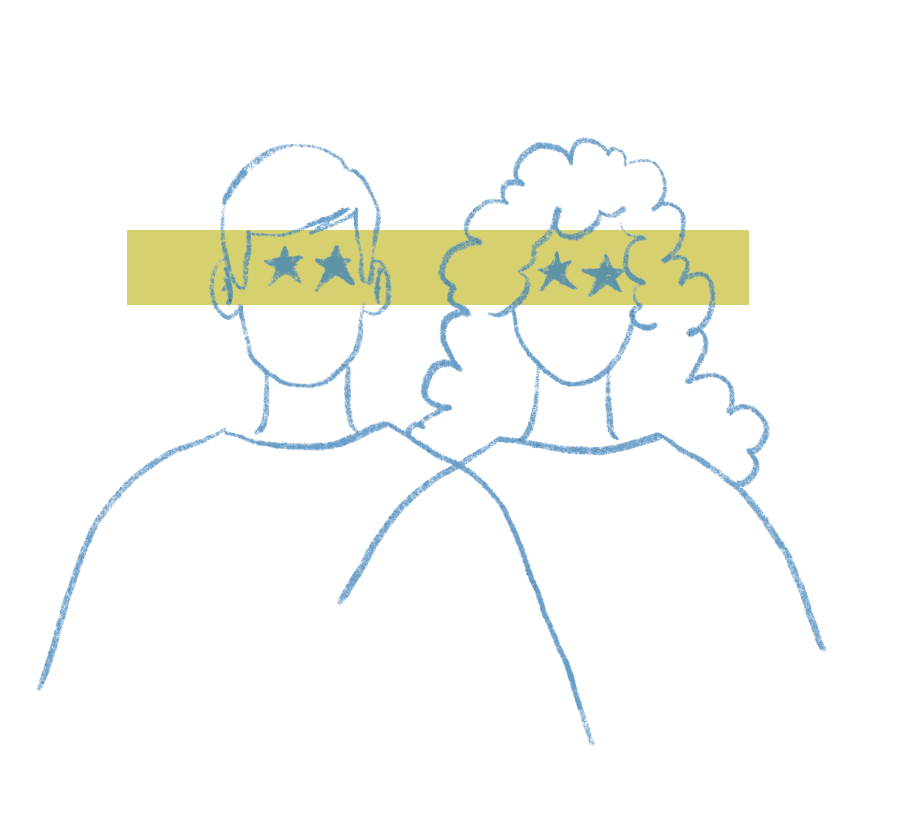
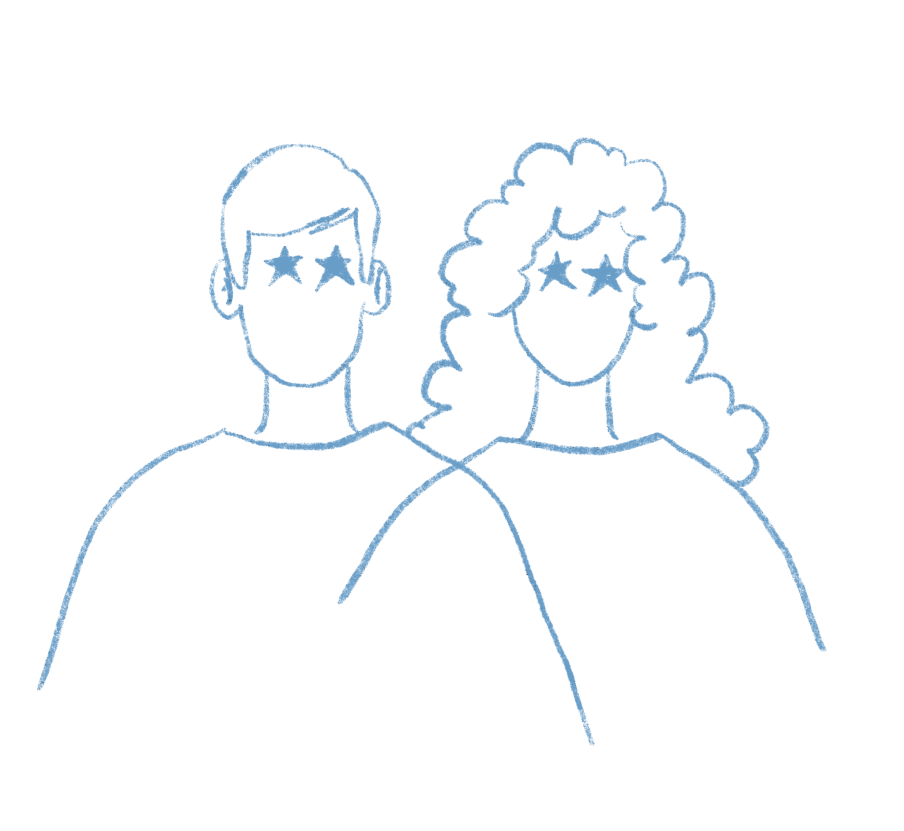
style: add animations

Changed region(s): [[0.1239, 0.2708, 0.8363, 0.3911]]

diff --git a/src/views/Suggestions.vue b/src/views/Suggestions.vue
@@ -208,7 +208,10 @@
             /></router-link>
           </div>
         </Form>
-        <ImageContainer src="/bike.png" class="w-[703px]" />
+        <div class="mt-20">
+          <ImageContainer src="/bike.png" class="w-[703px] fixed top-200 left-[1100px]" />
+          <Animation />
+        </div>
       </div>
     </div>
   </base-wrapper>
@@ -217,13 +220,15 @@
 <script>
 import { Form, Field, ErrorMessage } from 'vee-validate'
 import ImageContainer from '../components/ImageContainer.vue'
+import Animation from '../components/animations/suggestions.vue'
 import axios from 'axios'
 export default {
   components: {
     Form,
     Field,
     ErrorMessage,
-    ImageContainer
+    ImageContainer,
+    Animation
   },
 
   computed: {
@@ -288,10 +293,8 @@ export default {
           }
         )
         .then((response) => {
-          console.log(response)
           if (response.status === 201) {
             this.$router.push('/thank-you')
-            // this.$router.push('/suggestions')
           }
         })
         .catch((error) => {

diff --git a/src/views/CovidCondition.vue b/src/views/CovidCondition.vue
@@ -135,7 +135,10 @@
             </button>
           </div>
         </Form>
-        <ImageContainer src="/CovidConditionImage.png" class="w-[870px]" />
+        <div>
+          <ImageContainer src="/CovidConditionImage.png" class="w-[870px]" />
+          <Animation />
+        </div>
       </div>
     </div>
   </base-wrapper>
@@ -144,12 +147,14 @@
 <script>
 import { Form, Field, ErrorMessage } from 'vee-validate'
 import ImageContainer from '../components/ImageContainer.vue'
+import Animation from '../components/animations/covidCondition.vue'
 export default {
   components: {
     Form,
     Field,
     ErrorMessage,
-    ImageContainer
+    ImageContainer,
+    Animation
   },
 
   computed: {
@@ -199,7 +204,6 @@ export default {
       this.$router.push('/vaccine-condition')
     },
     changeCondition(e) {
-      console.log(e.target.name)
       this.$store.dispatch('inputs_covid_condition/saveData', {
         ...this.allInputs,
         had_antibody_test: this.had_antibody_test,

diff --git a/src/views/VaccinateCondition.vue b/src/views/VaccinateCondition.vue
@@ -173,7 +173,10 @@
               <img src="/Vector_right.png" alt="vector_right" />
             </button></div
         ></Form>
-        <ImageContainer src="/VaccineConditionImage.png" class="w-[783px]" />
+        <div>
+          <ImageContainer src="/VaccineConditionImage.png" class="w-[783px]" />
+          <Animation />
+        </div>
       </div>
     </div>
   </base-wrapper>
@@ -182,12 +185,14 @@
 <script>
 import { Form, Field, ErrorMessage } from 'vee-validate'
 import ImageContainer from '../components/ImageContainer.vue'
+import Animation from '../components/animations/vaccineCondition.vue'
 export default {
   components: {
     Form,
     Field,
     ErrorMessage,
-    ImageContainer
+    ImageContainer,
+    Animation
   },
 
   computed: {

diff --git a/src/components/animations/vaccineCondition.vue b/src/components/animations/vaccineCondition.vue
@@ -1,0 +1,44 @@
+<template>
+  <transition name="box_3">
+    <img
+      src="/star_logo.png"
+      v-if="showBox"
+      class="absolute bottom-[520px] left-[800px] h-[229px] w-[229px] opacity-70"
+    />
+  </transition>
+</template>
+
+<script>
+export default {
+  data() {
+    return {
+      showBox: false
+    }
+  },
+  mounted() {
+    this.showBox = true
+  }
+}
+</script>
+
+<style scoped>
+.box_3-enter-active {
+  transition: all 0.5s ease;
+}
+
+.box_3-enter-from {
+  width: 60px;
+  bottom: 350px;
+  height: 60px;
+  left: 650px;
+  opacity: 0;
+}
+
+.box_3-enter-to {
+  bottom: 520px;
+  width: 229px;
+  height: 229px;
+  opacity: 0.7;
+  left: 800px;
+}
+</style>

diff --git a/src/views/PrivateInfo.vue b/src/views/PrivateInfo.vue
@@ -44,7 +44,10 @@
             </button>
           </div>
         </Form>
-        <ImageContainer src="/identifyImage.png" />
+        <div>
+          <ImageContainer src="/identifyImage.png" />
+          <Animation />
+        </div>
       </div>
     </div>
   </base-wrapper>
@@ -54,12 +57,14 @@
 import { Form } from 'vee-validate'
 import InputField from '../components/forms/inputs/InputField.vue'
 import ImageContainer from '../components/ImageContainer.vue'
+import Animation from '../components/animations/privateInfo.vue'
 
 export default {
   components: {
     Form,
     InputField,
-    ImageContainer
+    ImageContainer,
+    Animation
   },
 
   computed: {

diff --git a/src/components/animations/covidCondition.vue b/src/components/animations/covidCondition.vue
@@ -1,0 +1,43 @@
+<template>
+  <transition name="box_2">
+    <div
+      v-if="showBox"
+      class="bg-darkRed absolute top-[200px] right-[600px] h-[229px] w-[229px] opacity-70 rounded-full"
+    ></div>
+  </transition>
+</template>
+
+<script>
+export default {
+  data() {
+    return {
+      showBox: false
+    }
+  },
+  mounted() {
+    this.showBox = true
+  }
+}
+</script>
+
+<style>
+.box_2-enter-active {
+  transition: all 0.5s ease;
+}
+
+.box_2-enter-from {
+  width: 60px;
+  top: 190px;
+  height: 60px;
+  right: 390px;
+  opacity: 0;
+}
+
+.box_2-enter-to {
+  top: 200px;
+  width: 229px;
+  height: 229px;
+  opacity: 0.7;
+  right: 600px;
+}
+</style>

diff --git a/src/components/animations/suggestions.vue b/src/components/animations/suggestions.vue
@@ -1,0 +1,43 @@
+<template>
+  <transition name="box_4">
+    <img
+      src="/heart_logo.png"
+      v-if="showBox"
+      class="fixed left-[1200px] top-[300px] h-[172px] w-[194px] opacity-70"
+  /></transition>
+</template>
+
+<script>
+export default {
+  data() {
+    return {
+      showBox: false
+    }
+  },
+  mounted() {
+    this.showBox = true
+  }
+}
+</script>
+
+<style>
+.box_4-enter-active {
+  transition: all 0.5s ease;
+}
+
+.box_4-enter-from {
+  width: 60px;
+  height: 60px;
+  top: 30px;
+  left: 1200px;
+  opacity: 0;
+}
+
+.box_4-enter-to {
+  top: 300px;
+  width: 194px;
+  height: 172px;
+  opacity: 0.7;
+  left: 1200;
+}
+</style>

diff --git a/src/components/animations/privateInfo.vue b/src/components/animations/privateInfo.vue
@@ -1,0 +1,43 @@
+<template>
+  <transition name="box">
+    <div
+      v-if="showBox"
+      class="bg-darkYellow absolute top-[230px] left-[750px] h-[75px] w-[622px] opacity-70"
+    ></div>
+  </transition>
+</template>
+
+<script>
+export default {
+  data() {
+    return {
+      showBox: false
+    }
+  },
+  mounted() {
+    this.showBox = true
+  }
+}
+</script>
+
+<style>
+.box-enter-active {
+  transition: all 0.5s ease;
+}
+
+.box-enter-from {
+  width: 200px;
+  top: 300px;
+  height: 60px;
+  left: 700px;
+  opacity: 0;
+}
+
+.box-enter-to {
+  top: 230px;
+  width: 622px;
+  height: 75px;
+  opacity: 0.7;
+  left: 750px;
+}
+</style>

diff --git a/src/App.vue b/src/App.vue
@@ -4,6 +4,25 @@ import { RouterView } from 'vue-router'
 
 <template>
   <main class="font-arial">
-    <RouterView />
+    <router-view v-slot="{ Component }">
+      <transition name="route" mode="out-in">
+        <component :is="Component"></component>
+      </transition>
+    </router-view>
   </main>
 </template>
+
+<style>
+.route-enter-from {
+  opacity: 0;
+}
+.route-enter-active {
+  transition: all 0.2s ease-out;
+}
+.route-leave-to {
+  opacity: 0;
+}
+.route-leave-active {
+  transition: all 0.2s ease-in;
+}
+</style>

diff --git a/src/views/StartQuery.vue b/src/views/StartQuery.vue
@@ -12,15 +12,3 @@ import BaseWrapper from '../components/BaseWrapper.vue'
     </div>
   </base-wrapper>
 </template>
-
-<style>
-a {
-  font-style: normal;
-  font-weight: 700;
-  font-size: 30px;
-  line-height: 36px;
-  text-align: center;
-  text-transform: lowercase;
-  font-feature-settings: 'case';
-}
-</style>

diff --git a/tailwind.config.js b/tailwind.config.js
@@ -10,7 +10,9 @@ module.exports = {
         gray: '#EAEAEA',
         darkGray: '#232323',
         lightGray: '#626262',
-        darkBlue: '#1289AE'
+        darkBlue: '#1289AE',
+        darkYellow: '#D6D16E',
+        darkRed: '#DD3939'
       }
     }
   },
